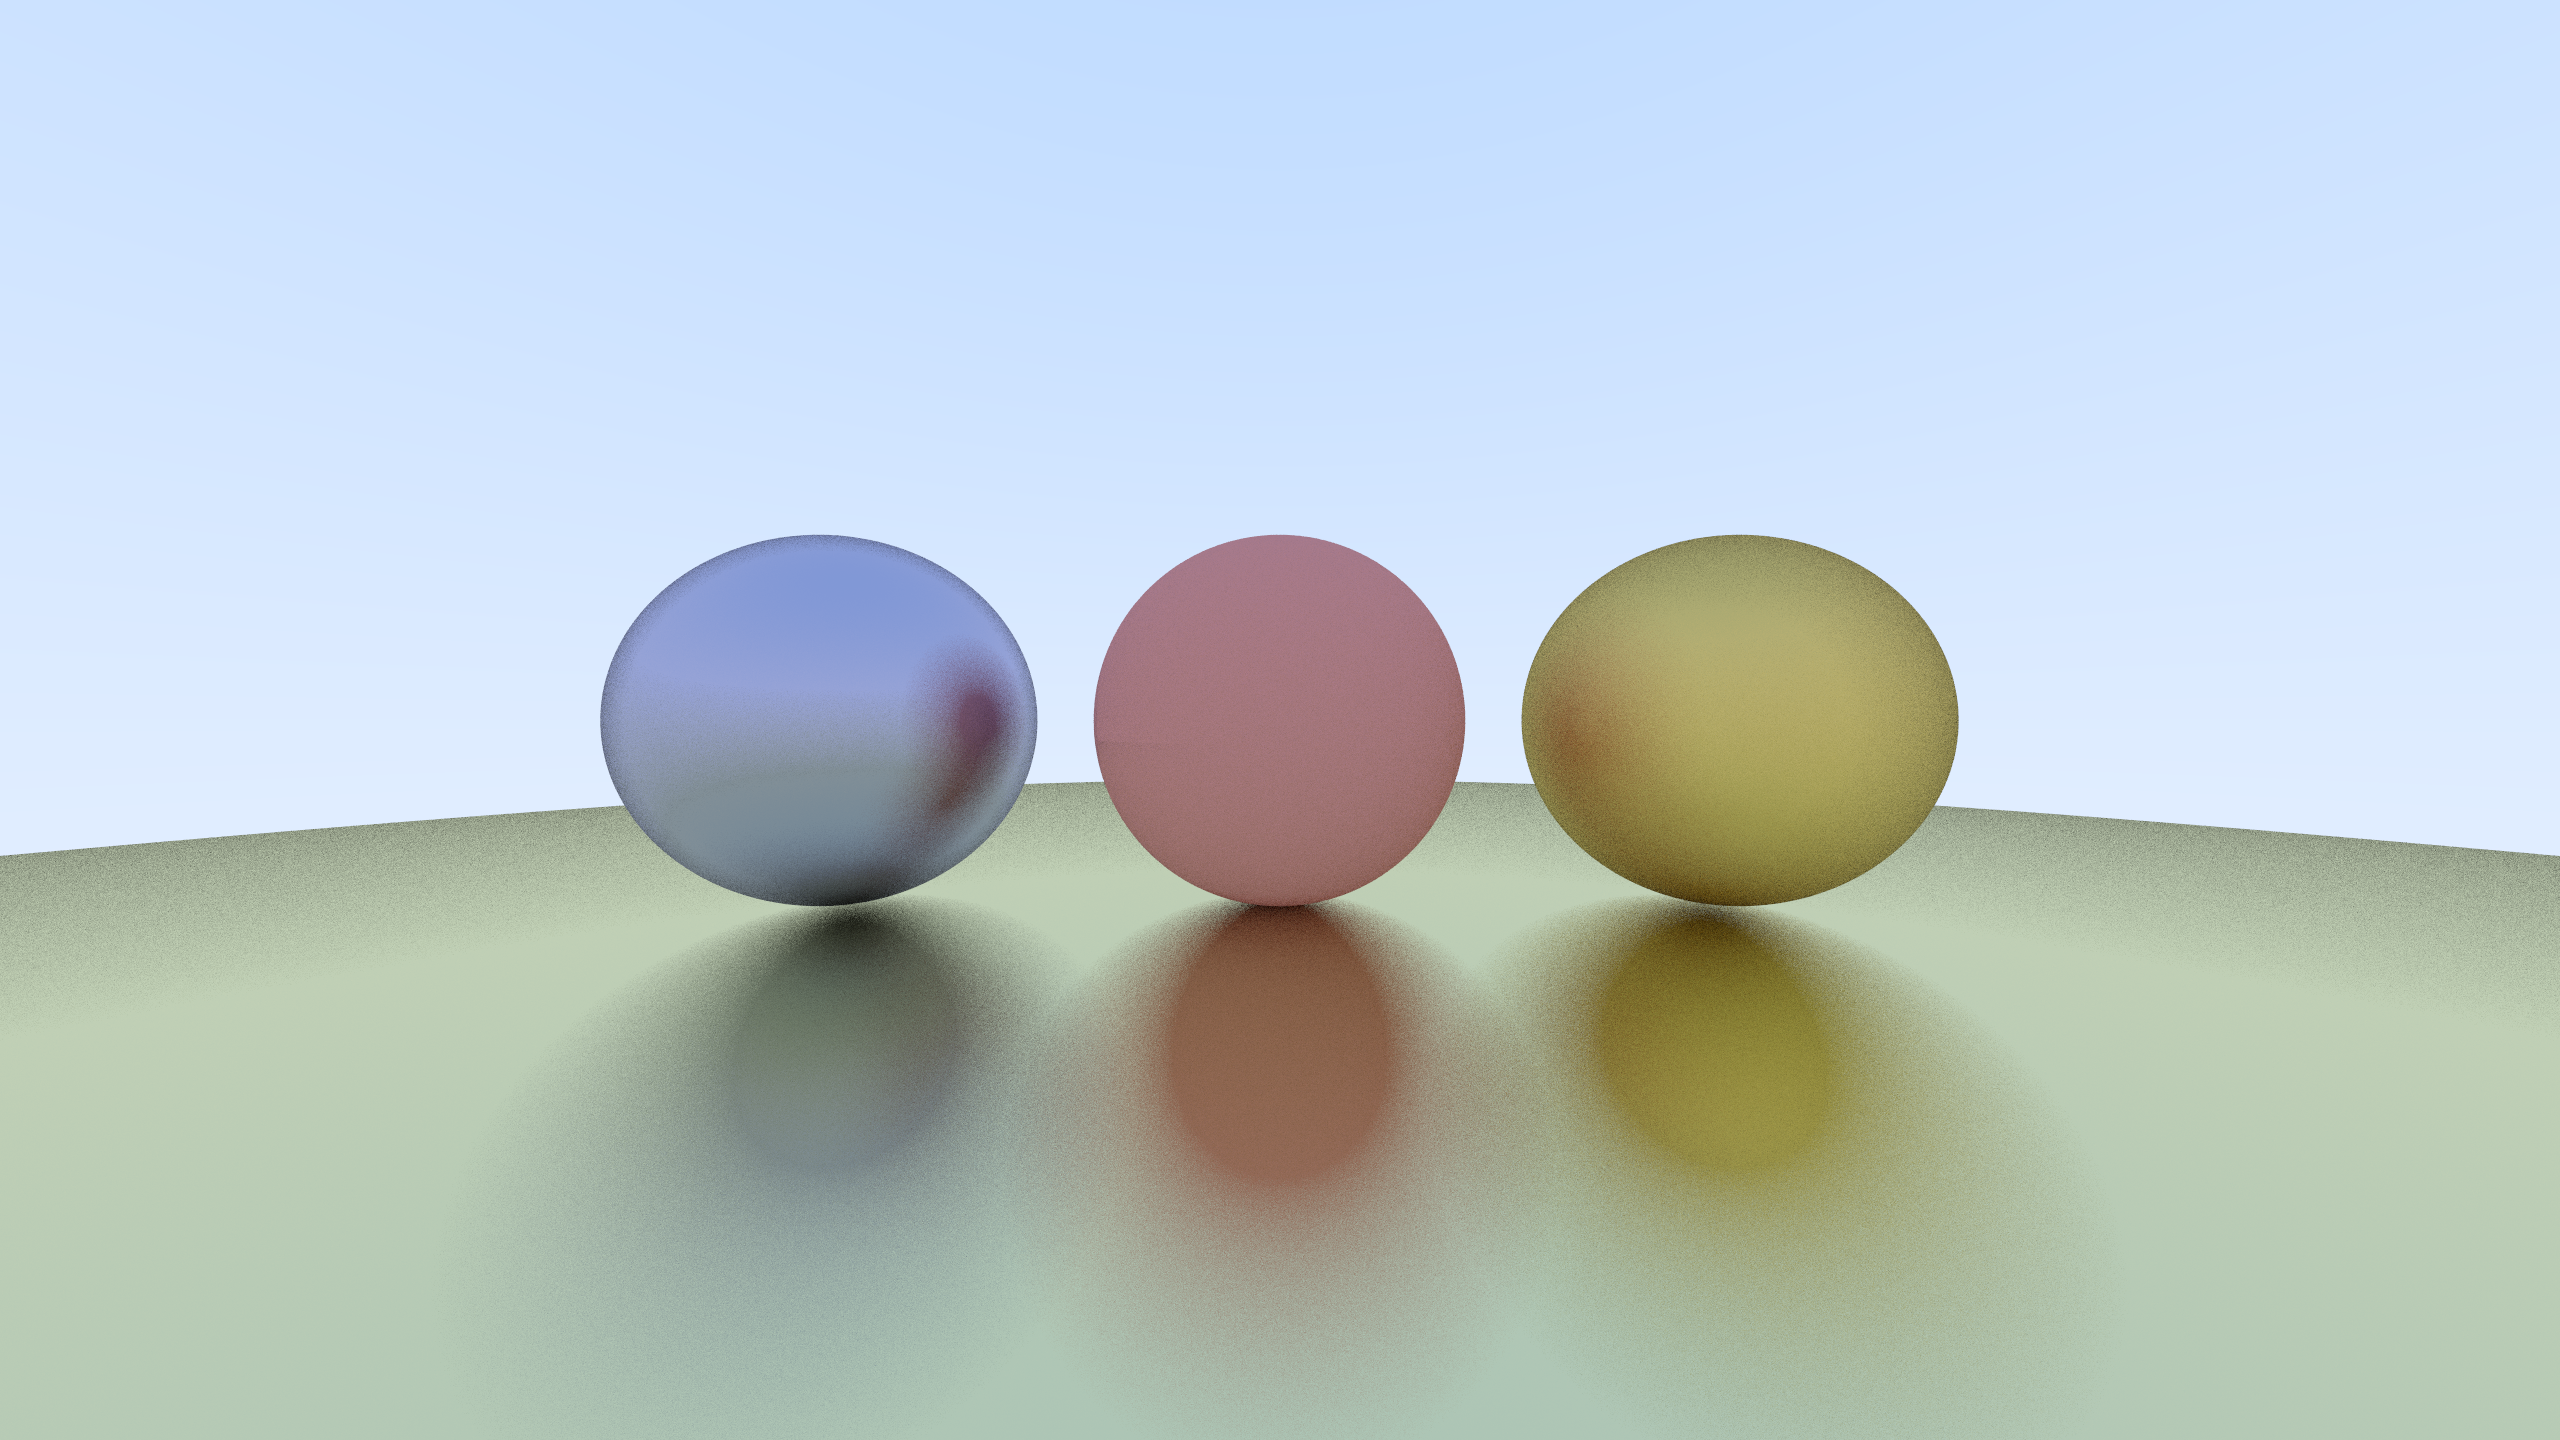
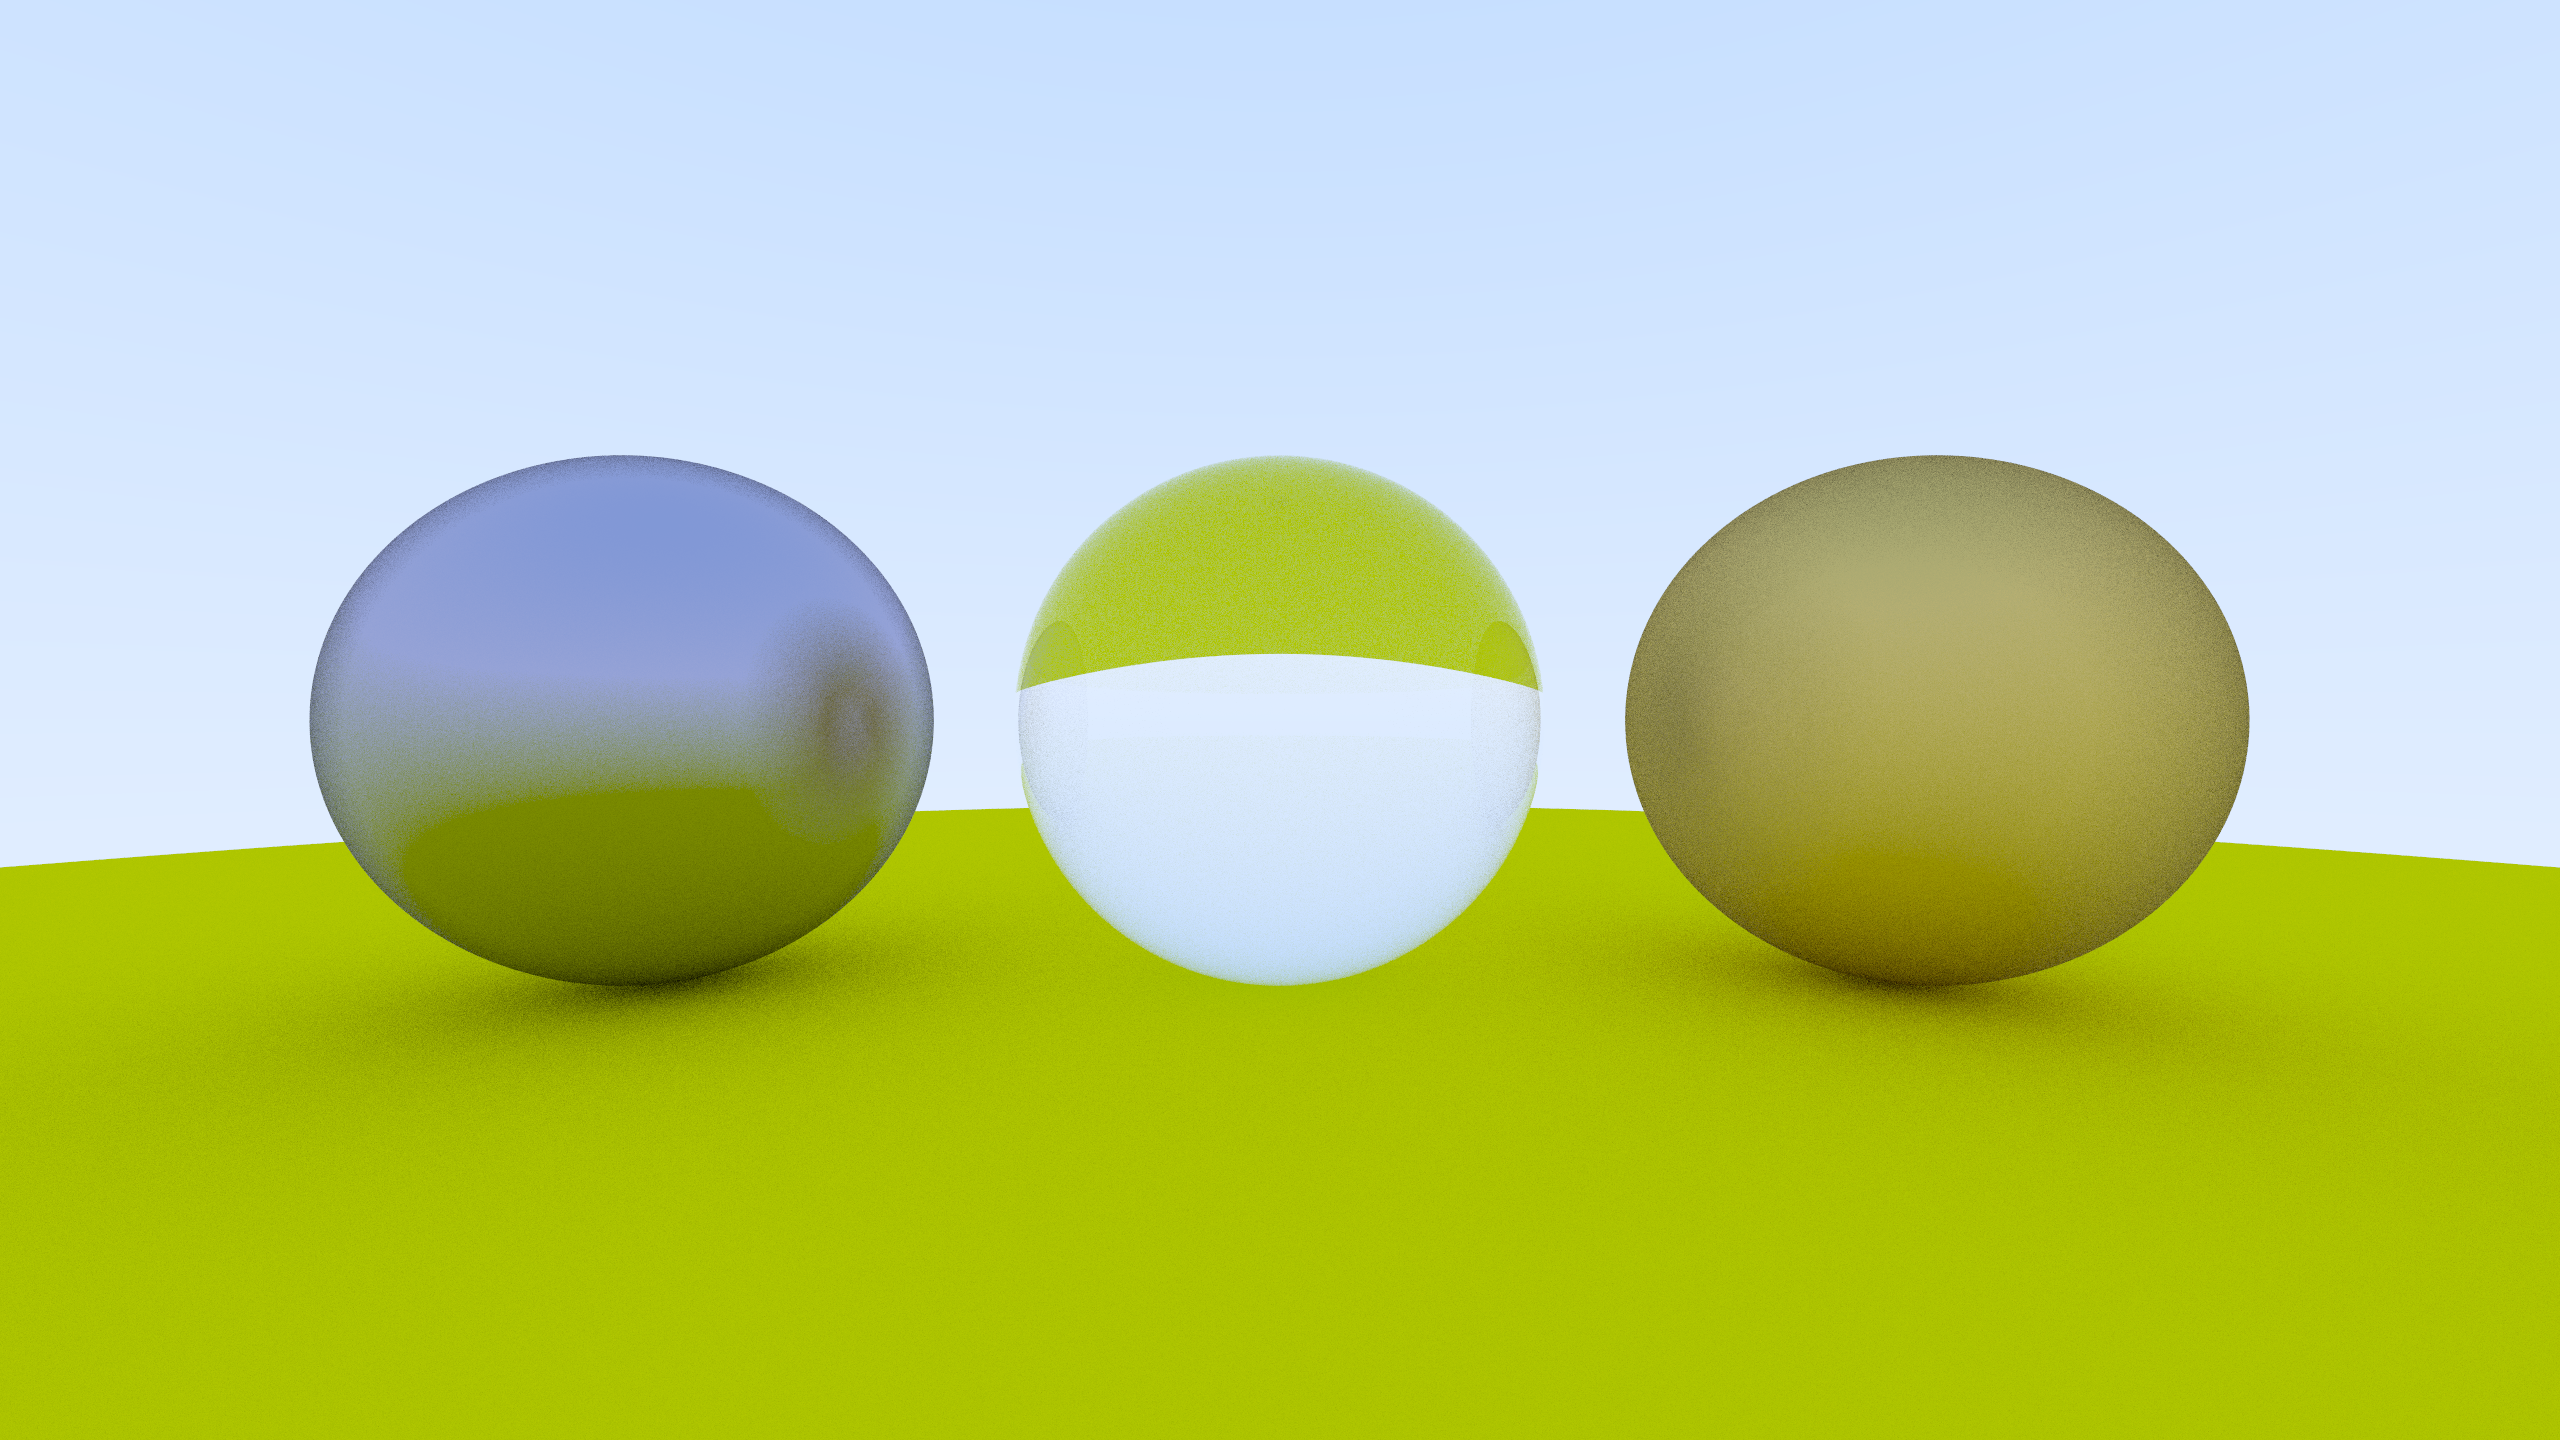
added fov control and updated image

diff --git a/src/objects/camera.rs b/src/objects/camera.rs
@@ -1,5 +1,5 @@
 use super::image::Image;
-use crate::primitives::{vector::{Vector, Vec3}, ray::Ray};
+use crate::{primitives::{vector::{Vector, Vec3}, ray::Ray}, degree_to_radian};
 
 pub struct Camera {
     pub origin: Vector,
@@ -9,8 +9,12 @@ pub struct Camera {
 }
 
 impl Camera {
-    pub fn from_image(image: &Image) -> Camera {
-        let viewport_height = 2.0;
+    pub fn from_image(image: &Image, fov: f64) -> Camera {
+
+        let theta = degree_to_radian(fov);
+        let h = (theta / 2.0).tan();
+
+        let viewport_height = 2.0 * h;
         let viewport_width = image.aspect_ratio * viewport_height;
         let focal_length = 1.0;
 

diff --git a/src/main.rs b/src/main.rs
@@ -18,7 +18,7 @@ const MAX_DEPTH: i32 = 50;
 fn main() {
 
     let image = Image::new_with_height(16.0 / 9.0, 1440);
-    let camera = Camera::from_image(&image);
+    let camera = Camera::from_image(&image, 70.0);
     let mut world: Vec<Box<dyn Hittable + Send + Sync>> = Vec::new();
 
     let ground = Material::new_lambertian(Color::new(0.8, 0.8, 0.0));
